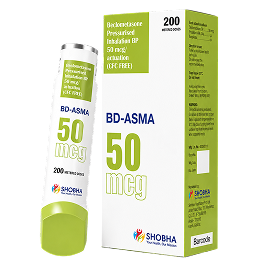
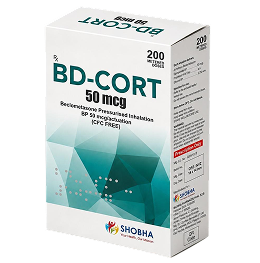
bd cort

diff --git a/SHOBHAWEBSITE-update-main/frontend/src/components/site/pharma/PharmaCategoriesGrid.jsx b/SHOBHAWEBSITE-update-main/frontend/src/components/site/pharma/PharmaCategoriesGrid.jsx
@@ -9,9 +9,9 @@ const allProducts = [
   // MDI Inhalers
   { tab: "MDI Inhalers", cat: "MDI Inhaler", color: "#62C7F5", name: "SAL-BETA", spec: "Salbutamol Inhaler (Non Alcoholic) · 100 mcg/dose · 200 Doses", desc: "Fast-acting bronchodilator for relief of acute asthma and COPD symptoms. Non-alcoholic formulation for better tolerability. Ideal for both adults and children experiencing acute bronchospasm.", form: "Inhaler", pack: "200 Doses", image: "/brand/mdi1.png" },
   { tab: "MDI Inhalers", cat: "MDI Inhaler", color: "#62C7F5", name: "BUDESON-200", spec: "Budesonide Inhaler · 200 mcg/dose · 200 Doses", desc: "Inhaled corticosteroid for long-term asthma control. Reduces airway inflammation and prevents symptoms. Effective maintenance therapy for persistent asthma across all age groups.", form: "Inhaler", pack: "200 Doses", image: "/brand/mdi2.png" },
-  { tab: "MDI Inhalers", cat: "MDI Inhaler", color: "#62C7F5", name: "BD-ASMA-50 MCG", spec: "Beclometasone Dipropionate · 50 mcg/dose · 200 Doses", desc: "Inhaled corticosteroid for mild asthma maintenance. Three strengths available — clinicians choose the right dose for each patient. CFC-free formulation with consistent lung deposition.", form: "Inhaler", pack: "200 Doses", image: "/brand/mdi3.png" },
-  { tab: "MDI Inhalers", cat: "MDI Inhaler", color: "#62C7F5", name: "BD-ASMA-100 MCG", spec: "Beclometasone Dipropionate · 100 mcg/dose · 200 Doses", desc: "Mid-strength inhaled corticosteroid for moderate asthma maintenance. Part of the BD-ASMA range. Proven reduction in exacerbation frequency with regular use.", form: "Inhaler", pack: "200 Doses", image: "/brand/mdi4.png" },
-  { tab: "MDI Inhalers", cat: "MDI Inhaler", color: "#62C7F5", name: "BD-ASMA-250 MCG", spec: "Beclometasone Dipropionate · 250 mcg/dose · 200 Doses", desc: "Higher-strength inhaled steroid for moderate-to-severe asthma. Proven, reliable, and accessible for long-term management where lower doses are insufficient.", form: "Inhaler", pack: "200 Doses", image: "/brand/mdi5.png" },
+  { tab: "MDI Inhalers", cat: "MDI Inhaler", color: "#62C7F5", name: "BD-CORT-50 MCG", spec: "Beclometasone Dipropionate · 50 mcg/dose · 200 Doses", desc: "Inhaled corticosteroid for mild asthma maintenance. Three strengths available — clinicians choose the right dose for each patient. CFC-free formulation with consistent lung deposition.", form: "Inhaler", pack: "200 Doses", image: "/brand/mdi3.png" },
+  { tab: "MDI Inhalers", cat: "MDI Inhaler", color: "#62C7F5", name: "BD-CORT-100 MCG", spec: "Beclometasone Dipropionate · 100 mcg/dose · 200 Doses", desc: "Mid-strength inhaled corticosteroid for moderate asthma maintenance. Part of the BD-ASMA range. Proven reduction in exacerbation frequency with regular use.", form: "Inhaler", pack: "200 Doses", image: "/brand/mdi4.png" },
+  { tab: "MDI Inhalers", cat: "MDI Inhaler", color: "#62C7F5", name: "BD-CORT-250 MCG", spec: "Beclometasone Dipropionate · 250 mcg/dose · 200 Doses", desc: "Higher-strength inhaled steroid for moderate-to-severe asthma. Proven, reliable, and accessible for long-term management where lower doses are insufficient.", form: "Inhaler", pack: "200 Doses", image: "/brand/mdi5.png" },
   { tab: "MDI Inhalers", cat: "MDI Inhaler", color: "#62C7F5", name: "SAL-Met-F 25+125 MCG", spec: "Salmeterol + Fluticasone · 25+125 mcg · 120 Doses", desc: "Combination long-acting bronchodilator and corticosteroid for persistent asthma and COPD management. Dual action: bronchodilation and anti-inflammatory protection in a single inhaler.", form: "Inhaler", pack: "120 Doses", image: "/brand/mdi6.png" },
   { tab: "MDI Inhalers", cat: "MDI Inhaler", color: "#62C7F5", name: "SAL-Met-F 25+250 MCG", spec: "Salmeterol + Fluticasone · 25+250 mcg · 120 Doses", desc: "Higher-strength combination inhaler for severe persistent asthma requiring dual bronchodilator and steroid therapy. Suitable for patients uncontrolled on lower-strength combinations.", form: "Inhaler", pack: "120 Doses", image: "/brand/mdi7.png" },
   { tab: "MDI Inhalers", cat: "MDI Inhaler", color: "#62C7F5", name: "SIMBACORT 6+200 MCG", spec: "Formoterol + Budesonide · 6+200 mcg · 120 Doses", desc: "Dual-action maintenance inhaler combining a long-acting beta-agonist with an inhaled steroid for asthma and COPD. Fast onset of formoterol provides both maintenance and reliever function.", form: "Inhaler", pack: "120 Doses", image: "/brand/mdi8.png" },

diff --git a/SHOBHAWEBSITE-update-main/frontend/src/components/site/ProductRange.jsx b/SHOBHAWEBSITE-update-main/frontend/src/components/site/ProductRange.jsx
@@ -14,29 +14,29 @@ const products = [
   {
     cat: "MDI Inhaler",
     tabKey: "MDI Inhalers",
-    name: "BD-ASMA 50mcg",
+    name: "BD-CORT 50mcg",
     spec: "Beclometasone Dipropionate · 200 Doses",
     desc: "Inhaled corticosteroid for mild asthma maintenance. Three strengths available — clinicians choose the right dose for each patient.",
     color: "#62C7F5",
-    image: "/brand/bd-asma.png",
+    image: "/brand/bd 50.png",
   },
   {
     cat: "MDI Inhaler",
     tabKey: "MDI Inhalers",
-    name: "BD-ASMA 100mcg",
+    name: "BD-CORT 100mcg",
     spec: "Beclometasone Dipropionate · 200 Doses",
     desc: "Mid-strength inhaled corticosteroid for moderate asthma maintenance. Part of the BD-ASMA range.",
     color: "#62C7F5",
-    image: "/brand/bd-asma100.png",
+    image: "/brand/bd 100.png",
   },
   {
     cat: "MDI Inhaler",
     tabKey: "MDI Inhalers",
-    name: "BD-ASMA 250mcg",
+    name: "BD-CORT 250mcg",
     spec: "Beclometasone Dipropionate · 200 Doses",
     desc: "Higher-strength inhaled steroid for moderate-to-severe asthma. Proven, reliable, and accessible for long-term management.",
     color: "#62C7F5",
-    image: "/brand/shobha250.png",
+    image: "/brand/bd 250.png",
   },
   {
     cat: "MDI Inhaler",
